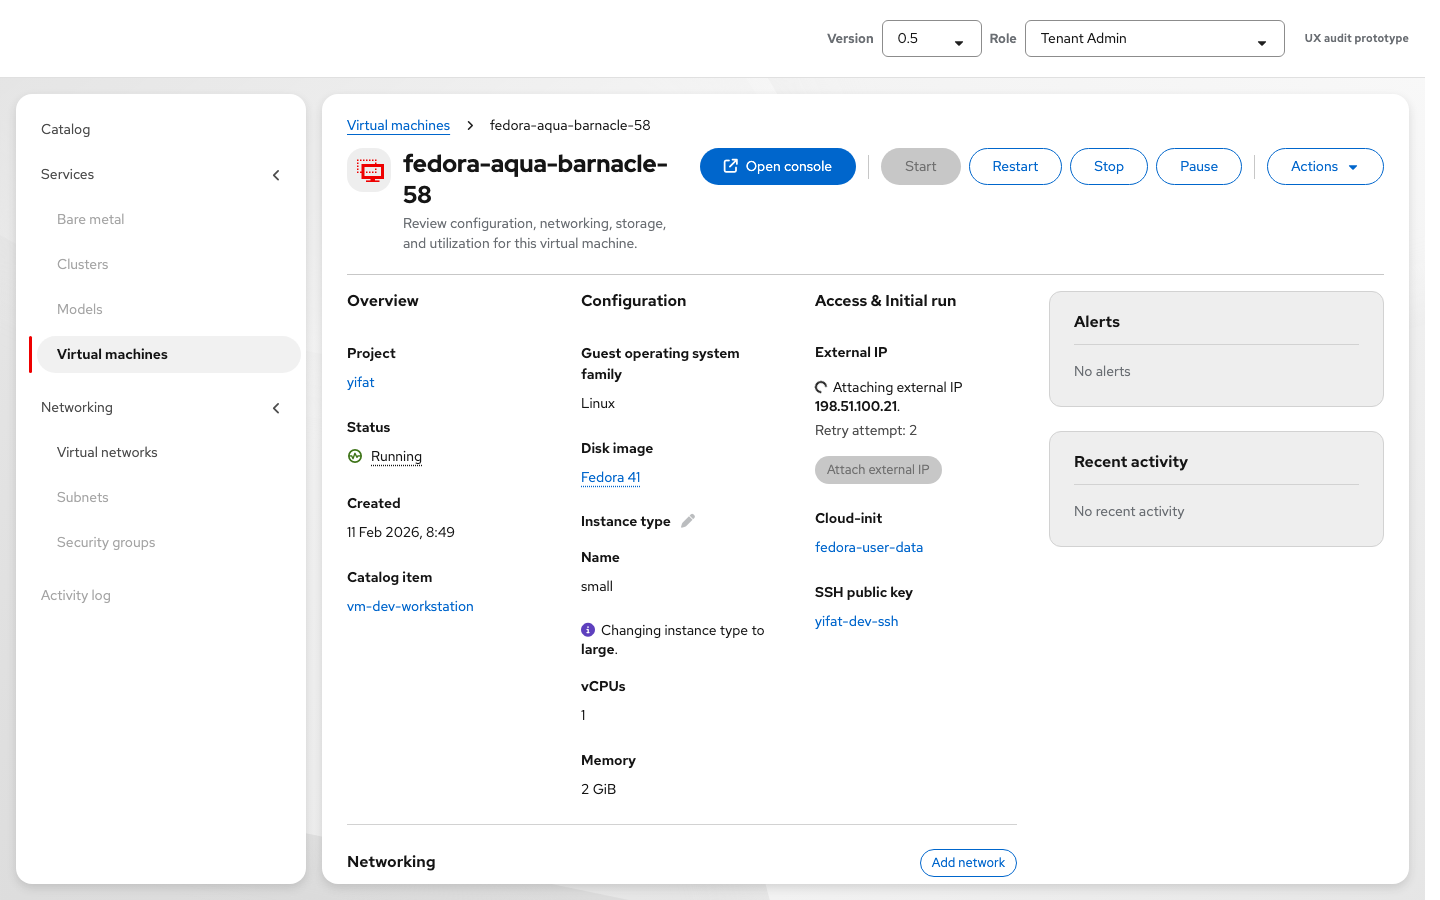
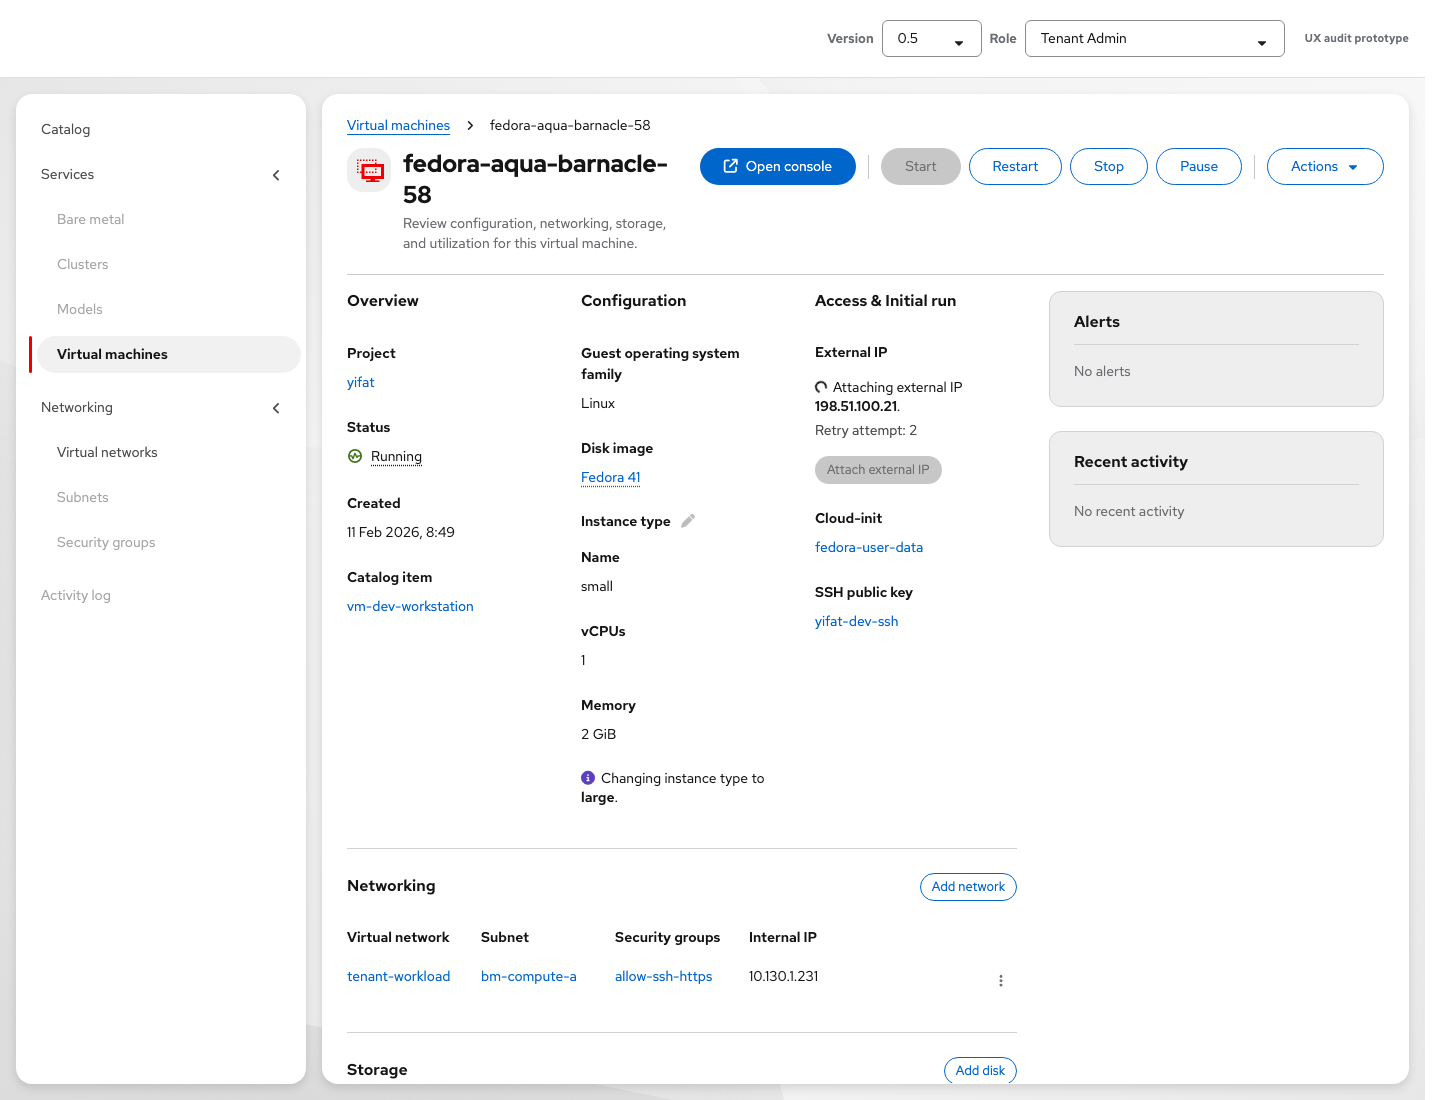
OSAC-7158: clarify mixed configuration changes
Assisted-by: Cursor <cursoragent@cursor.com>

diff --git a/apps/app-frontend/public/vmaas-ux-prototype.html b/apps/app-frontend/public/vmaas-ux-prototype.html
@@ -8582,6 +8582,7 @@
       { name: 'windows-golden-eider-58', ns: 'project-a', status: 'stopped', os: 'Windows', osFull: 'Microsoft Windows Server 2022', imageLabel: 'Windows Server 2022', catalogItem: 'vm-windows-workstation', conditions: ['Ready=True'], node: 'cnvge-079.lab.eng.thv2.redhat.com', ip: '—', created: '11 Feb 2026, 9:48', sysprepConfigured: true, sysprepSecretId: 'sysprep-corp-std', bootDiskAccessMode: 'RWO' },
       { name: 'fedora-aqua-barnacle-58', ns: 'yifat', status: 'running', os: 'Fedora', osFull: 'Fedora Linux 41', imageLabel: 'Fedora 41', catalogItem: 'vm-dev-workstation', conditions: ['DataVolumesReady=True', 'LiveMigratable=True'], node: 'cnvge-081.lab.eng.thv2.redhat.com', ip: '10.130.1.231', created: '11 Feb 2026, 8:49', computeResource: 'large', activeComputeId: 'small', resizeProgress: { phase: 'after-restart', startedAtMs: Date.now() - 8 * 60000, startedAt: new Date(Date.now() - 8 * 60000).toLocaleString('en-GB'), lastUpdatedAt: new Date(Date.now() - 5 * 60000).toLocaleString('en-GB'), changes: [{ section: 'Configuration', label: 'Instance type', from: 'small', to: 'large' }, { section: 'Configuration', label: 'vCPUs', from: '1 vCPU', to: '2 vCPUs' }, { section: 'Configuration', label: 'Memory', from: '2 GiB', to: '8 GiB' }] }, externalIpStatus: 'attaching', externalIpPending: '198.51.100.21', externalIpRetryAttempt: 2, hostDevices: [{ name: 'host-usb-1' }], sshSecretId: 'ssh-yifat-dev', cloudInitSource: 'secret', cloudInitSecretId: 'ud-fedora-init' },
       { name: 'debian-cobalt-heron-41', ns: 'yifat', status: 'running', os: 'Other', osFull: 'Debian 12', imageLabel: 'Debian 12', catalogItem: 'vm-dev-workstation', conditions: ['Ready=True'], node: 'cnvge-081.lab.eng.thv2.redhat.com', ip: '10.130.1.238', created: '10 Nov 2026, 16:05', computeResource: 'large', activeComputeId: 'small', resizeFailure: { reason: 'The requested instance type is unavailable. The VM is still using its previous resources.', retryPlanned: false }, bootDiskAccessMode: 'RWO' },
+      { name: 'ubuntu-copper-ibis-31', ns: 'project-a', status: 'running', os: 'Other', osFull: 'Ubuntu 24.04 LTS', imageLabel: 'Ubuntu 24.04 LTS', catalogItem: 'vm-dev-workstation', conditions: ['Ready=True'], node: 'cnvge-081.lab.eng.thv2.redhat.com', ip: '10.130.1.239', created: '18 Nov 2026, 11:40', computeResource: 'large', activeComputeId: 'small', resizeFailure: { reason: 'The requested instance type is unavailable. The VM is still using its previous resources.', retryPlanned: false }, externalIpStatus: 'attaching', externalIpPending: '198.51.100.22', externalIpRetryAttempt: 2, bootDiskAccessMode: 'RWO' },
       { name: 'rhel8-mystic-eagle-22', ns: 'vmaas', status: 'ErrorPvcNotFound', os: 'RHEL', osFull: 'Red Hat Enterprise Linux 8', imageLabel: 'RHEL 8.10', catalogItem: 'vm-legacy-app-server', conditions: ['Provisioning=False', 'Ready=False'], node: 'cnvge-080.lab.eng.thv2.redhat.com', ip: '—', created: '22 Jan 2026, 14:42', alerts: [{ severity: 'warning', message: 'Boot disk is unavailable' }, { severity: 'warning', message: 'Virtual machine is not Ready' }], bootDiskAccessMode: 'RWO' },
       { name: 'gpu-provisioning-failed', ns: 'project-a', status: 'starting', provisioningFailed: true, provisioningFailureReason: 'ProvisioningFailed', provisioningFailureMessage: 'AAP job failed', os: 'RHEL', osFull: 'Red Hat Enterprise Linux 9', imageLabel: 'RHEL 9.4', computeResource: 'small-gpu', conditions: ['PROVISIONED=False', 'ProvisioningFailed'], node: '—', ip: '—', created: '9 Nov 2026, 15:57' },
       { name: 'legacy-obsolete-vm', ns: 'project-a', status: 'stopped', os: 'RHEL', osFull: 'Red Hat Enterprise Linux 9', imageLabel: 'RHEL 9.4', computeResource: '8xlarge', conditions: ['Ready=True'], node: 'cnvge-079.lab.eng.thv2.redhat.com', ip: '—', created: '8 Nov 2026, 10:21', bootDiskAccessMode: 'RWO' },
@@ -9227,7 +9228,7 @@
         const reason = escAttr(vm.resizeFailure.reason || 'The requested instance type could not be applied.');
         const retry = vm.resizeFailure.nextRetryAt
           ? ` Another attempt is scheduled for ${escAttr(vm.resizeFailure.nextRetryAt)}.`
-          : (vm.resizeFailure.retryPlanned === false ? ' No further retry is scheduled.' : '');
+          : (vm.resizeFailure.retryPlanned === false ? ' No automatic retry is scheduled.' : '');
         alerts.push({ title: 'Resize failed', description: `Could not apply instance type <strong>${target}</strong>. ${reason}${retry}` });
       }
       const ipStatus = vmExternalIpStatus(vm);
@@ -9236,7 +9237,7 @@
         const reason = escAttr(vm.externalIpError || `We couldn’t attach external IP ${target} to this VM.`);
         const retry = vm.externalIpNextRetryAt
           ? ` Another attempt is scheduled for ${escAttr(vm.externalIpNextRetryAt)}.`
-          : (vm.externalIpRetryPlanned === false ? ' No further retry is scheduled.' : '');
+          : (vm.externalIpRetryPlanned === false ? ' No automatic retry is scheduled.' : '');
         alerts.push({ title: 'External IP attachment failed', description: `${reason}${retry}` });
       }
       if (alerts.length === 0) return '';
@@ -9258,7 +9259,7 @@
       const target = escAttr(resolveVmComputeId(vm) || 'the requested instance type');
       if (vm.resizeFailure) {
         return `<div class="vm-config-inline" role="status">
-          <div>Resize to <strong>${target}</strong> failed. The current configuration remains active.</div>
+          <div>Resize failed.</div>
           ${canResize ? '<button type="button" class="pf-v6-c-button pf-m-secondary pf-m-small vm-config-inline__action" data-resize-again>Resize again</button>' : ''}
         </div>`;
       }
@@ -17254,10 +17255,10 @@
                   ${itField('Disk image', diskImageDisplay)}
                   ${itSubtitleRow}
                   ${itField('Name', `${itNameSafe} ${instanceTypeLifecycleLabel(COMPUTE_RESOURCES.find(c => c.id === vmActiveComputeId(v))?.lifecycle)}`)}
-                  ${vmResizeInlineHtml(v, canResizeCompute)}
                   ${itField('vCPUs', String(computeFields.vcpu).replace(/</g, '&lt;'))}
                   ${itField('Memory', String(computeFields.memory).replace(/</g, '&lt;'))}
                   ${gpuFieldsHtml}
+                  ${vmResizeInlineHtml(v, canResizeCompute)}
                 </section>
                 <section class="ethan-detail-col" aria-labelledby="vm-access-title">
                   <h3 class="ethan-detail-col__title" id="vm-access-title">Access &amp; Initial run</h3>

diff --git a/docs/vm-overview-ux-handoff.md b/docs/vm-overview-ux-handoff.md
@@ -2,17 +2,23 @@
 
 Contact: Yifat Friman Menchik, UXD  
 Google Doc: [VM Overview](https://docs.google.com/document/d/1Y8hjgE924owve0VXA3rkKqTYuB4sXKif8KhXyFL3hyQ/edit)  
-Interactive mocks: [0.4](https://osac-project.github.io/osac-ux/vmaas-ux-prototype-v0.4.html?v=c6c0274&role=admin&vm=indigo-quokka-89) · [0.5](https://osac-project.github.io/osac-ux/vmaas-ux-prototype.html?v=20261119-osac7158&role=admin&vm=indigo-quokka-89)
+Interactive mocks: [0.4](https://osac-project.github.io/osac-ux/vmaas-ux-prototype-v0.4.html?v=c6c0274&role=admin&vm=indigo-quokka-89) · [0.5](https://osac-project.github.io/osac-ux/vmaas-ux-prototype.html?v=20261119-osac7158-audit&role=admin&vm=indigo-quokka-89)
 
 VM Overview shows the active instance type, CPU, and memory. Editing the instance type opens the name-first, two-line picker: each option has the resource name above CPU, memory, GPU count and readable model when present, and rate. Omit PCI hardware IDs from visible labels. The GPU specification still determines which resize targets are compatible. See the [resize handoff](osac-4281-vm-resize-handoff.md).
 
 ## Version 0.5 — configuration operations (OSAC-7158)
 
-The Overview **Status** row shows the VM power state only. Keep active instance type, CPU, memory, and attached external IP as the main values. Show resize progress or a scheduled resize beside the instance type, and attachment progress beside External IP. Name the requested instance type or address in context. A known later attempt appears on its own subdued line. The Attach external IP button remains visible but disabled while attachment runs. Reserve a top-of-page danger alert for failed operations; when two operations fail, list both in one alert. A failed resize has a **Resize again** button by the instance type. After an attachment failure, keep the attempted address out of the attached-IP value and offer **Attach external IP** to start another selection.
+The Overview **Status** row shows the VM power state only. Keep active instance type, CPU, memory, and attached external IP as the main values. Keep the instance type name, CPU, memory, and GPU together; show scheduled or applying resize status immediately after those specs. Attachment progress appears beside External IP. Name the requested type or address in context. A known later attempt appears on its own subdued line. The Attach external IP button remains visible but disabled while attachment runs. Reserve a top-of-page danger alert for failed operations; when two operations fail, list both in one alert. Put the failure reason in that alert and a short **Resize failed** cue with **Resize again** beside the instance type. Say **No automatic retry is scheduled** when that is known, so the manual action remains clear. After an attachment failure, keep the attempted address out of the attached-IP value and offer **Attach external IP** to start another selection.
 
 ![Version 0.5 progress beside instance type and External IP](screenshots/latest-ux/vm-config-inline-progress-0.5.png)
 
 ![Version 0.5 failure alert and Resize again action](screenshots/latest-ux/vm-config-failure-0.5.png)
+
+The `ubuntu-copper-ibis-31` example combines a failed resize with external-IP attachment still running. The top alert covers only the resize failure; IP progress and its disabled Attach button stay beside External IP. In lists and cards, **Changes need attention** takes precedence, while the tooltip names both operations.
+
+![Version 0.5 failed resize and active external-IP attachment](screenshots/latest-ux/vm-config-mixed-0.5.png)
+
+![Version 0.5 mixed-operation status tooltip](screenshots/latest-ux/vm-config-status-tooltip-mixed-0.5.png)
 
 When a resize requires a restart, show “Restart required to apply resize” beside the instance type. **Scheduled changes** is collapsed by default and expands to show current and requested values. In VM lists and cards, use icon-and-text statuses, rather than pill labels, for both power state and configuration state: **Changes pending**, **Changes in progress**, or **Changes need attention**. The configuration status tooltip names each relevant operation and target, including external-IP attachment. Remove it once no work is outstanding.
 
@@ -26,7 +32,7 @@ The VM list uses compact PatternFly pagination in card and table views: an item-
 
 ![Version 0.5 configuration status tooltip](screenshots/latest-ux/vm-config-status-tooltip-0.5.png)
 
-The screenshots below document the earlier 0.4 list and resize layout. The 0.5 screenshots above show the current operation alert and list labels.
+The screenshots below document the earlier 0.4 list and resize layout. The 0.5 screenshots above show the current failure alert and icon-and-text statuses.
 
 ![VM list and compact pagination](screenshots/latest-ux/vm-list.png)
 

diff --git a/docs/osac-4281-vm-resize-handoff.md b/docs/osac-4281-vm-resize-handoff.md
@@ -6,7 +6,7 @@ Updated: 12 November 2026
 UX Google Doc: https://docs.google.com/document/d/1kgln_LzTA3-VSP0SUM0jLce2Nvw0pix3oTYkwZuX-wE/edit  
 Interactive mockup, 0.4: https://osac-project.github.io/osac-ux/vmaas-ux-prototype-v0.4.html?v=0.4&role=admin&vm=windows-golden-eider-58
 
-Interactive mockup, 0.5: https://osac-project.github.io/osac-ux/vmaas-ux-prototype.html?v=20261119-osac7158&role=admin&vm=fedora-aqua-barnacle-58
+Interactive mockup, 0.5: https://osac-project.github.io/osac-ux/vmaas-ux-prototype.html?v=20261119-osac7158-audit&role=admin&vm=fedora-aqua-barnacle-58
 Feature: [OSAC-4277](https://redhat.atlassian.net/browse/OSAC-4277)  
 Resize: [OSAC-4281](https://redhat.atlassian.net/browse/OSAC-4281)  
 Related work: [OSAC-7576](https://redhat.atlassian.net/browse/OSAC-7576), [OSAC-7463](https://redhat.atlassian.net/browse/OSAC-7463), [OSAC-7582](https://redhat.atlassian.net/browse/OSAC-7582), [OSAC-6578](https://redhat.atlassian.net/browse/OSAC-6578)
@@ -35,7 +35,7 @@ When the API reports that a resize is applying without a restart, keep **Running
 
 After a restart with a scheduled resize, remove **Restart required** and show **Changes in progress** in lists while the resize is applying, even if the power state has returned to **Running**. In version 0.5, details show the operation beside Instance type. The mockup uses `fedora-aqua-barnacle-58` for this state; restarting `azure-baboon-27` also demonstrates the transition.
 
-Do not show a persistent top progress notification, timing details, or a Recent activity entry for this brief operation. Remove the configuration status only when the API confirms completion, then show the new instance type, CPU, and memory as active values and a brief success toast. Keep configuration progress separate from the VM power state, as required by OSAC-6578. These states require operation phase and active versus requested values from the API; the mockup timer only demonstrates completion and must not be used as production logic. If resize fails, keep current resources visible, show **Changes need attention** in the 0.5 list, put the reason in a top danger alert, and offer **Resize again** beside Instance type.
+Do not show a persistent top progress notification, timing details, or a Recent activity entry for this brief operation. Keep the instance type name, CPU, memory, and GPU together; show progress after those specs. Remove the configuration status only when the API confirms completion, then show the new instance type, CPU, and memory as active values and a brief success toast. Keep configuration progress separate from the VM power state, as required by OSAC-6578. These states require operation phase and active versus requested values from the API; the mockup timer only demonstrates completion and must not be used as production logic. If resize fails, keep current resources visible, show **Changes need attention** in the 0.5 list, put the reason in a top danger alert, and show only a short **Resize failed** cue with **Resize again** beside Instance type. If known, say **No automatic retry is scheduled** in the alert; the user can still submit a new resize. `ubuntu-copper-ibis-31` demonstrates a failed resize while external-IP attachment continues.
 
 The API must expose or allow derivation of both active and requested configuration values, the restart-required condition, the resize operation phase, and a failure reason. Backend acceptance of the update depends on OSAC-5328.
 
@@ -95,6 +95,8 @@ The API must expose or allow derivation of both active and requested configurati
 ![Resize failure on VM Overview](screenshots/vm-resize/resize-failed.png)
 
 ![Version 0.5 failure alert with Resize again](screenshots/latest-ux/vm-config-failure-0.5.png)
+
+![Version 0.5 failed resize with external-IP attachment still in progress](screenshots/latest-ux/vm-config-mixed-0.5.png)
 
 ## Provisioning failure (separate state)
 

diff --git a/docs/tenant-networking-ux-handoff.md b/docs/tenant-networking-ux-handoff.md
@@ -2,7 +2,7 @@
 
 Contact: Yifat Friman Menchik, UXD  
 Google Doc: [Tenant Networking](https://docs.google.com/document/d/1Bb-TzaXkhdASe6btymwRk2u0wXycwyqS-I8h637hDGY/edit)  
-Interactive mocks: [0.4](https://osac-project.github.io/osac-ux/vmaas-ux-prototype-v0.4.html?v=17d8bb5&role=admin&vm=rhel9-black-gunnysack-58) · [0.5](https://osac-project.github.io/osac-ux/vmaas-ux-prototype.html?v=20261119-osac7158&role=admin&vm=windows-golden-eider-58)
+Interactive mocks: [0.4](https://osac-project.github.io/osac-ux/vmaas-ux-prototype-v0.4.html?v=17d8bb5&role=admin&vm=rhel9-black-gunnysack-58) · [0.5](https://osac-project.github.io/osac-ux/vmaas-ux-prototype.html?v=20261119-osac7158-audit&role=admin&vm=windows-golden-eider-58)
 
 The Virtual networks list uses compact PatternFly pagination above and below the results: an item-range dropdown plus Previous and Next. The dropdown changes items per page (10, 20, 50, or 100). Filtering resets to the first page.
 
@@ -14,13 +14,17 @@ On VM Overview, an auto-attached external IP shows **Auto attached** beside the 
 
 The **External IP** heading is sufficient; do not add a Host label or empty placeholder below it. Show the address directly below the heading only after attachment succeeds. Detach is available only when an IP is confirmed attached.
 
-In version **0.5** (OSAC-7158), show attachment progress beside External IP and keep **Attach external IP** visible but disabled while it runs. Name the selected address and show a known later attempt on a separate subdued line. Reserve the top-of-page danger alert for failure. The failed address must not appear as an attached IP. After failure, offer **Attach external IP** so the user can select an address again; do not offer Detach because no address was attached.
+In version **0.5** (OSAC-7158), show attachment progress beside External IP and keep **Attach external IP** visible but disabled while it runs. Name the selected address and show a known later attempt on a separate subdued line. Reserve the top-of-page danger alert for failure. Say **No automatic retry is scheduled** only when that is known; it does not prevent the user from starting a new attachment. The failed address must not appear as an attached IP. After failure, offer **Attach external IP** so the user can select an address again; do not offer Detach because no address was attached.
 
 In the VM list and cards, external-IP work contributes to one icon-and-text configuration status alongside the power status. Use **Changes in progress** while attaching or **Changes need attention** if attachment failed; the tooltip names the operation and selected address.
+
+If resize has failed while attachment continues, the top alert describes the resize failure, attachment progress stays beside External IP, and the list tooltip names both. The mixed-operation example is `ubuntu-copper-ibis-31`.
 
 ## Version 0.5 screenshots
 
 ![Version 0.5 configuration status tooltip with resize and external-IP attachment](screenshots/latest-ux/vm-config-status-tooltip-concurrent-0.5.png)
+
+![Version 0.5 failure and attachment progress on one VM](screenshots/latest-ux/vm-config-mixed-0.5.png)
 
 ![Version 0.5 External IP attachment beside its setting](screenshots/latest-ux/vm-config-inline-progress-0.5.png)
 
